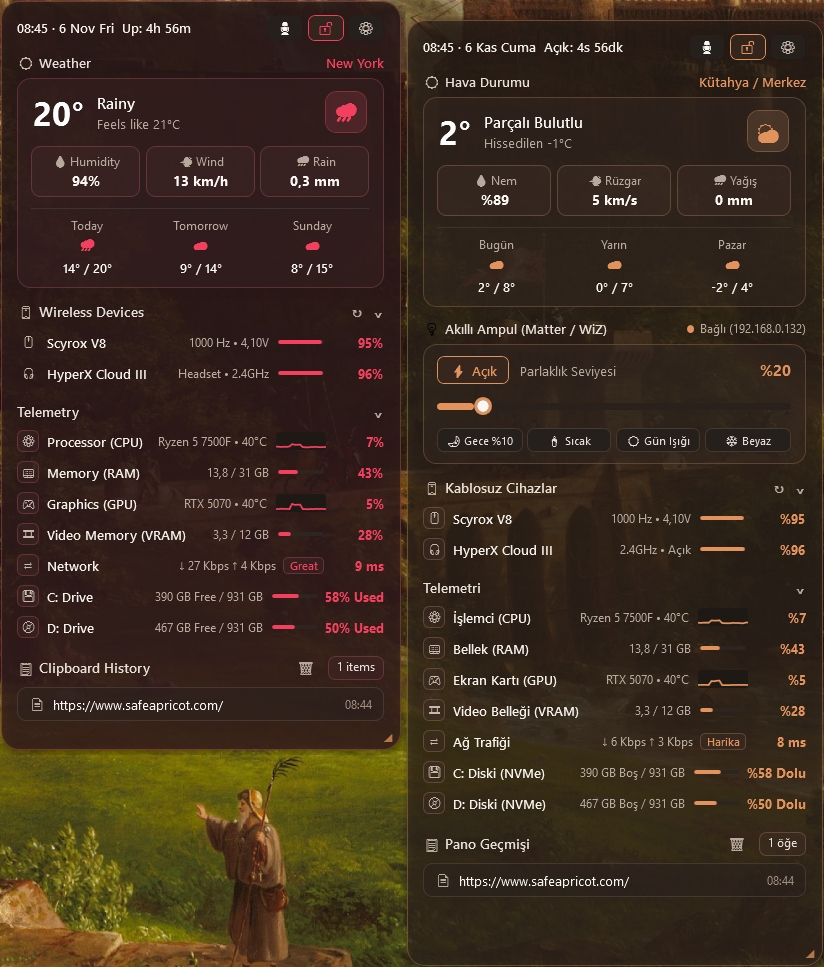
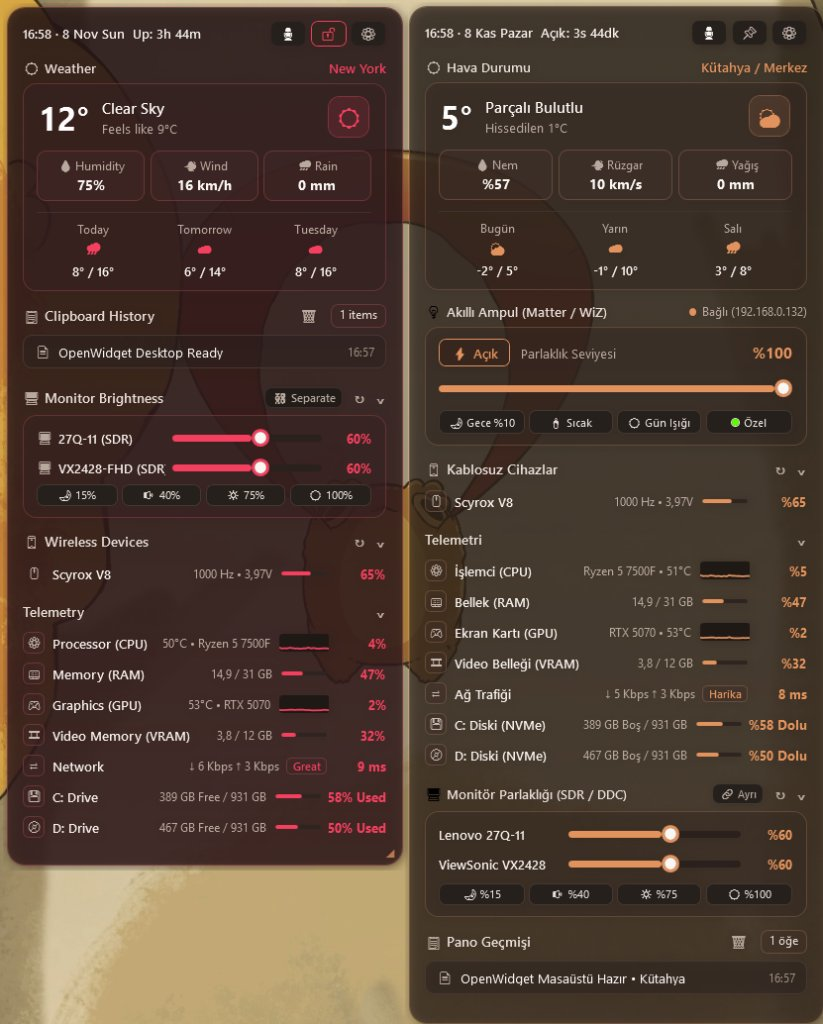
docs(readme): update preview screenshot and document v2.0.0 monitor brightness and custom layout features

diff --git a/README.md b/README.md
@@ -35,8 +35,8 @@
   - Automatically detects connected monitors and their friendly model names, adding smooth brightness sliders (`0%–100%`), mouse-wheel step control (`±5%`), **`Linked / Separate`** multi-monitor sync toggle, and instant presets (`15%`, `40%`, `75%`, `100%`).
   - **HDR Lock Bypass:** Automatically uses Windows native **SDR Content Brightness (`DisplayConfigSetDeviceInfo`)** on HDR-enabled displays (where hardware VCP `0x10` is locked by monitor firmware) and hardware **DDC/CI (`dxva2.dll`)** on standard SDR displays — replacing 140 MB Electron brightness utilities with zero background overhead.
 - **Customizable Layout, Drag-and-Drop Reordering & Granular Visibility (`Layout & Modules`):**
-  - Open **Settings → Layout & Modules** to individually toggle **Weather**, **Monitor Brightness**, **Wireless Devices**, **Telemetry**, and **Clipboard History** on or off.
-  - **Drag & Drop Reordering:** Hold and drag any module row (or use the `▲` / `▼` buttons) to customize the exact vertical order of sections on your widget.
+  - Open **Settings -> Layout & Modules** to individually toggle **Weather**, **Monitor Brightness**, **Wireless Devices**, **Telemetry**, and **Clipboard History** on or off.
+  - **Drag & Drop Reordering:** Hold and drag any module row (or use the up/down buttons) to customize the exact vertical order of sections on your widget.
   - **Granular Telemetry Toggles:** Individually show or hide **CPU**, **RAM**, **GPU**, **VRAM**, **Network & Ping**, and **Drives** inside the Telemetry card.
 - **Live Weather & 3-Day Forecast:** Current temperature, feels-like, humidity, wind speed, precipitation, and 3-day min/max forecast powered by Open-Meteo (no API key required).
 - **Auto-Detected Wireless Peripherals Battery & Polling Rate Telemetry:**
@@ -84,8 +84,8 @@ OpenWidget compiles out-of-the-box using the native .NET Framework 64-bit compil
   - Bağlı monitörlerinizi ve gerçek model isimlerini otomatik algılayarak her monitör için parlaklık slider'ı (`%0–%100`), fare tekerleği ile `±%5` hassas kontrol, **`Birlikte / Ayrı`** senkronizasyon modu ve hızlı mod butonları (`%15`, `%40`, `%75`, `%100`) ekler.
   - **HDR Kilit Çözümü:** HDR açıkken donanımsal parlaklığı kilitleyen monitörlerde Windows'un yerel **SDR İçerik Parlaklığı (`DisplayConfigSetDeviceInfo`)** motorunu, standart SDR ekranlarda ise doğrudan **DDC/CI (`dxva2.dll`)** protokolünü sıfır gecikmeyle kullanır.
 - **Özelleştirilebilir Widget Düzeni & Sürükle-Bırak Sıralama (`Düzen & Modüller`):**
-  - **Ayarlar → Düzen & Modüller** sekmesinden **Hava Durumu**, **Monitör Parlaklığı**, **Kablosuz Cihazlar**, **Telemetri** ve **Pano Geçmişi** bölümlerinden hangilerinin gösterileceğini tek tıkla seçebilirsiniz.
-  - **Tut-Bırak (Drag & Drop) Sıralama:** Modülleri basılı tutup yukarı/aşağı sürükleyerek (veya `▲` / `▼` butonlarıyla) widget üzerindeki sıralamasını istediğiniz gibi değiştirebilirsiniz.
+  - **Ayarlar -> Düzen & Modüller** sekmesinden **Hava Durumu**, **Monitör Parlaklığı**, **Kablosuz Cihazlar**, **Telemetri** ve **Pano Geçmişi** bölümlerinden hangilerinin gösterileceğini tek tıkla seçebilirsiniz.
+  - **Tut-Bırak (Drag & Drop) Sıralama:** Modülleri basılı tutup yukarı/aşağı sürükleyerek (veya yukarı/aşağı butonlarıyla) widget üzerindeki sıralamasını istediğiniz gibi değiştirebilirsiniz.
   - **Detaylı Telemetri Seçimi:** Telemetri kartı içindeki **İşlemci (CPU)**, **Bellek (RAM)**, **Ekran Kartı (GPU)**, **Video Belleği (VRAM)**, **Ağ Trafiği** ve **Diskler** satırlarını ayrı ayrı açıp kapatabilirsiniz.
 - **Canlı Hava Durumu & 3 Günlük Tahmin:** Anlık sıcaklık, hissedilen sıcaklık, nem, rüzgar, yağış ve 3 günlük tahmin.
 - **Otomatik Kablosuz Cihaz (Fare, Klavye, Kulaklık, Kumanda) Şarj & Hz Takibi:**
